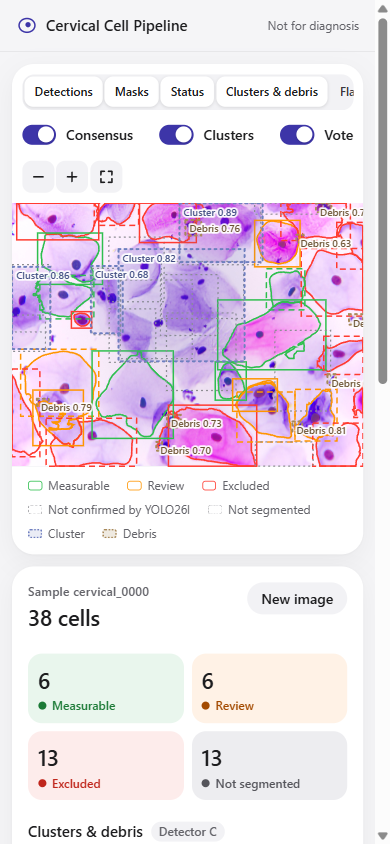
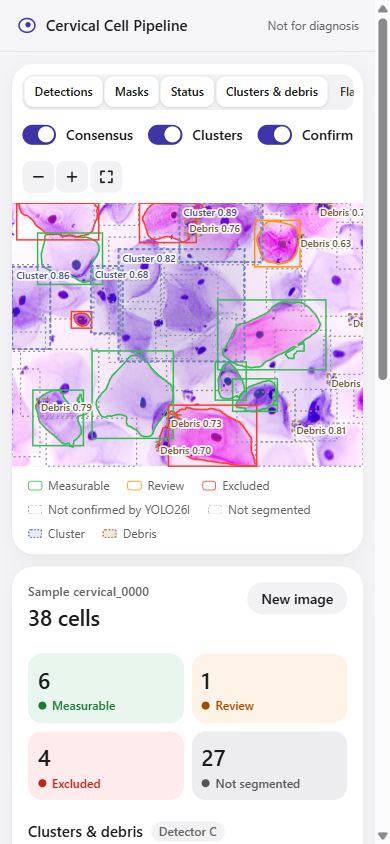
Confirmation cascade: YOLO26s proposes, detector C then YOLO26l confirm, then segment
- voting.mode cascade (default) / majority; reasons not_confirmed_c / not_confirmed_l
- cells inside cluster/debris boxes still skipped; unconfirmed boxes listed as not_segmented
- UI: Confirm switch and stage; docs, tests, screenshots updated

diff --git a/app/frontend/src/components/Landing.tsx b/app/frontend/src/components/Landing.tsx
@@ -56,9 +56,9 @@ export function Landing({ samples, samplesError, onFile, onSample, opts, avail, 
             hint={avail.consensus ? 'YOLO26l confirms each cell. Never removes cells.' : 'Not available on this deployment.'} />
           <Switch checked={opts.clusters && avail.clusters} disabled={!avail.clusters}
             onChange={(v) => setOpt('clusters', v)} label="Clusters & debris (detector C)"
-            hint={avail.clusters ? 'Outlines clusters and debris (never segmented). Its cell class is the third vote.' : 'Not available on this deployment.'} />
-          <Switch checked={opts.vote} onChange={(v) => setOpt('vote', v)} label="Segment voted cells only"
-            hint="Only cells at least 2 of 3 detectors agree on, outside clusters and debris. Others are shown, not segmented." />
+            hint={avail.clusters ? 'Outlines clusters and debris (never segmented). Its cell class is the first check.' : 'Not available on this deployment.'} />
+          <Switch checked={opts.vote} onChange={(v) => setOpt('vote', v)} label="Segment confirmed cells only"
+            hint="YOLO26s finds cells; detector C, then YOLO26l, must confirm each one. Cells in clusters or debris are skipped. Others are shown, not segmented." />
         </div>
         {msg && <p className="error" role="alert">{msg}</p>}
         {busyRetry && (

diff --git a/app/frontend/src/lib/labels.ts b/app/frontend/src/lib/labels.ts
@@ -11,7 +11,7 @@ export const STATUS_HINT: Record<Status, string> = {
   measurable: 'Mask passed every check',
   review: 'Usable, but worth a look',
   excluded: 'Mask not usable for measurement',
-  not_segmented: 'Skipped by the vote: fewer than 2 detectors agree, or inside a cluster / debris box',
+  not_segmented: 'Not confirmed by detector C and YOLO26l, or inside a cluster / debris box',
 }
 
 // Gate reason codes (ncmask/quality.py) and image QC flags in plain words
@@ -34,6 +34,8 @@ export const REASON: Record<string, string> = {
   low_stain: 'Very little stained material',
   heavy_stain: 'Very heavy staining',
   not_voted: 'Fewer than 2 detectors agree',
+  not_confirmed_c: 'Not confirmed by detector C',
+  not_confirmed_l: 'Not confirmed by YOLO26l',
   inside_cluster: 'Inside a cluster',
   inside_debris: 'Inside debris',
 }

diff --git a/app/frontend/src/components/Toolbar.tsx b/app/frontend/src/components/Toolbar.tsx
@@ -40,7 +40,7 @@ export function Toolbar({ layers, setLayers, opts, avail, setOpt, clustersShown,
           onChange={(v) => setOpt('consensus', v)} label="Consensus" />
         <Switch compact checked={opts.clusters && avail.clusters} disabled={!avail.clusters || busy}
           onChange={(v) => setOpt('clusters', v)} label="Clusters" />
-        <Switch compact checked={opts.vote} disabled={busy} onChange={(v) => setOpt('vote', v)} label="Vote" />
+        <Switch compact checked={opts.vote} disabled={busy} onChange={(v) => setOpt('vote', v)} label="Confirm" />
         <div className="zoom" role="group" aria-label="Zoom">
           <button type="button" className="iconbtn" onClick={() => onZoom(1 / 1.4)} aria-label="Zoom out">
             <svg viewBox="0 0 16 16" aria-hidden="true"><path d="M3.5 8h9" /></svg>

diff --git a/app/frontend/src/lib/api.ts b/app/frontend/src/lib/api.ts
@@ -39,7 +39,7 @@ export interface Result {
   image_qc: { ok: boolean; flags: string[]; metrics: Record<string, number> }
   consensus: { requested: boolean; used: boolean; l_only: number }
   clusters: { requested: boolean; used: boolean; info_only: true; conf: number | null; near_frac: number | null; boxes: CBox[] }
-  voting: { used: boolean; detectors_run: number; votes_needed: number | null; skip_in_cluster_debris: boolean; bc_only: number }
+  voting: { used: boolean; mode: 'cascade' | 'majority' | null; detectors_run: number; votes_needed: number | null; skip_in_cluster_debris: boolean; bc_only: number }
   cells: Cell[]
   counts: {
     total: number

diff --git a/app/frontend/src/components/Analysis.tsx b/app/frontend/src/components/Analysis.tsx
@@ -11,7 +11,7 @@ export const STAGES: Stage[] = [
   { key: 'detect', label: 'Detect', detail: 'YOLO26s finds the cells' },
   { key: 'consensus', label: 'Consensus', detail: 'YOLO26l cross-checks them' },
   { key: 'clusters', label: 'Clusters & debris', detail: 'Detector C outlines clusters and debris' },
-  { key: 'vote', label: 'Vote', detail: 'Keep cells at least 2 detectors agree on' },
+  { key: 'vote', label: 'Confirm', detail: 'Detector C, then YOLO26l, confirm each cell' },
   { key: 'segment', label: 'Segment', detail: 'TinyUNet outlines cell and nucleus' },
   { key: 'gate', label: 'Quality gate', detail: 'Each mask is sorted by status' },
 ]

diff --git a/app/frontend/src/components/SidePanel.tsx b/app/frontend/src/components/SidePanel.tsx
@@ -98,7 +98,7 @@ export function SidePanel({ result, selected, onSelect, onNew }: {
             <div><dt>Cells near debris</dt><dd>{result.counts.near.debris}</dd></div>
           </dl>
           <p className="small muted">{result.voting.used
-            ? 'Clusters and debris are never segmented; cells inside them are skipped. Detector C is experimental (mAP50 ~0.5).'
+            ? 'Clusters and debris are never segmented; cells inside them are skipped. Detector C (experimental, mAP50 ~0.5) also confirms each cell.'
             : C_NOTE}</p>
         </section>
       )}

diff --git a/ncmask/fov.py b/ncmask/fov.py
@@ -6,9 +6,13 @@ nucleus within cell -> Stage 4 two layers: FULL per-cell masks (measurement, ove
 excluded + reasons) -> outputs.
 Optional: detector C (cluster / debris boxes, never segmented) -> per-cell near_cluster / near_debris (the C box ids
 covering >= detector_c.near_frac of the cell's detector box). Voting off: information only, computed after the gate.
-Voting on (cfg voting.enabled): a box is segmented only if >= min_votes of the detectors that ran (A YOLO26s, B YOLO26l,
-C's cell class) agree on it and it is not inside a cluster / debris box; the rest stay in the outputs as
-status not_segmented (reason not_voted / inside_cluster / inside_debris)."""
+Voting on (cfg voting.enabled), two modes:
+  cascade   YOLO26s (A) proposes -> detector C's cell class must confirm (else not_confirmed_c) -> YOLO26l (B) must
+            confirm (else not_confirmed_l) -> segmented. A is the only source; a check that did not run is skipped.
+  majority  >= min_votes of the detectors that ran (A, B, C's cell class) agree (else not_voted); B + C boxes that A
+            missed are candidates too (det_tag bc_only).
+Either way a confirmed cell >= near_frac inside a cluster / debris box is not segmented (inside_cluster /
+inside_debris); not segmented boxes stay in the outputs with status not_segmented."""
 import json
 import logging
 import time
@@ -236,11 +240,12 @@ def process_fov(img, fov_id, src_name, detector, seg, cfg, detector_b=None, dete
     vt = cfg.get("voting") or {}
     voting = bool(vt.get("enabled"))
     n_run = 1 + (mode != "single") + (detector_c is not None)
-    need = min(int(vt.get("min_votes", 2)), n_run)
+    vmode = vt.get("mode", "majority")
+    need = n_run if vmode == "cascade" else min(int(vt.get("min_votes", 2)), n_run)
     viou = float(vt.get("match_iou", 0.5))
     ac = match_boxes(boxes, c_cells, viou)[1] if detector_c is not None else np.zeros(len(boxes), bool)
     voters = np.array(["A" + ("B" if x else "") + ("C" if y else "") for x, y in zip(am, ac)], dtype=object)
-    if voting and mode != "single" and detector_c is not None and need <= 2:
+    if voting and vmode == "majority" and mode != "single" and detector_c is not None and need <= 2:
         # B + C agree on a cell YOLO26s missed: a majority without A -> a candidate with B's box and confidence
         free = np.where(~bm)[0]
         cfree = np.where(~match_boxes(boxes, c_cells, viou)[2])[0] if len(c_cells) else np.zeros(0, int)
@@ -284,9 +289,14 @@ def process_fov(img, fov_id, src_name, detector, seg, cfg, detector_b=None, dete
         if not cfg["size"]["box_area_min"] <= bw * bh <= cfg["size"]["box_area_max"]:
             rec["flags"].append("box_size_out_of_range")
         if voting:
-            if len(rec["voters"]) < need:
+            if vmode == "cascade":   # A -> C check -> B check
+                if detector_c is not None and "C" not in rec["voters"]:
+                    rec["skip"].append("not_confirmed_c")
+                elif mode != "single" and "B" not in rec["voters"]:
+                    rec["skip"].append("not_confirmed_l")
+            elif len(rec["voters"]) < need:
                 rec["skip"].append("not_voted")
-            elif vt.get("skip_in_cluster_debris", True):
+            if not rec["skip"] and vt.get("skip_in_cluster_debris", True):
                 rec["skip"] += ["inside_" + o for o in C_OBJECTS if rec["near"][o]]
             if rec["skip"]:
                 rows_pre.append((rec, None)); continue
@@ -416,7 +426,8 @@ def process_fov(img, fov_id, src_name, detector, seg, cfg, detector_b=None, dete
             "detector_c_used": detector_c is not None, "c_boxes": c_boxes,
             "fov_qc": qc_flags, "fov_qc_metrics": qc_metrics, "coco_full": coco_full,
             "status_counts": {k: sum(r["status"] == k for r in rows) for k in STATUSES},
-            "voting": {"enabled": voting, "detectors_run": n_run, "votes_needed": need if voting else None},
+            "voting": {"enabled": voting, "mode": vmode if voting else None, "detectors_run": n_run,
+                       "votes_needed": need if voting else None},
             "n_dropped_overlap": len(dropped_ov), "t_detect_s": round(t_det, 4), "t_seg_s": round(t_seg, 4),
             "t_total_s": round(time.perf_counter() - t0, 4), "t_post_s": round(t2 - t1 - t_seg, 4)}
     return rows, coco, cell_lab, nuc_lab, overlay, info

diff --git a/tests/test_app.py b/tests/test_app.py
@@ -119,17 +119,22 @@ def test_infer_schema(result):
 
 
 def test_voting(result):
-    """Default vote=true: segmented only with >= 2 of 3 detectors and not inside a cluster / debris box."""
+    """Default vote=true, cascade: YOLO26s -> detector C confirms -> YOLO26l confirms -> segmented, unless inside a
+    cluster / debris box."""
     v = result["voting"]
-    assert v["used"] and v["detectors_run"] == 3 and v["votes_needed"] == 2
-    cl = {b["id"]: b for b in result["clusters"]["boxes"]}
+    assert v["used"] and v["mode"] == "cascade" and v["detectors_run"] == 3
     for c in result["cells"]:
+        assert "A" in c["voters"]
         if c["status"] == "not_segmented":
             assert c["cell_polygons"] == [] and c["cell_area_px"] == 0
-            assert c["reasons"] in (["not_voted"], ["inside_cluster"], ["inside_debris"], ["inside_cluster", "inside_debris"])
-            assert (c["reasons"] == ["not_voted"]) == (c["votes"] < 2)
+            if "C" not in c["voters"]:
+                assert c["reasons"] == ["not_confirmed_c"]
+            elif "B" not in c["voters"]:
+                assert c["reasons"] == ["not_confirmed_l"]
+            else:
+                assert c["reasons"] and set(c["reasons"]) <= {"inside_cluster", "inside_debris"}
         else:
-            assert c["votes"] >= 2 and not c["near_cluster"] and not c["near_debris"]
+            assert c["voters"] == "ABC" and not c["near_cluster"] and not c["near_debris"]
     assert result["counts"]["status"]["not_segmented"] > 0
     assert sum(result["counts"]["votes"].values()) == len(result["cells"])
 

diff --git a/app/backend/main.py b/app/backend/main.py
@@ -218,8 +218,9 @@ def infer(file: UploadFile | None = File(None, description="FOV image: .tif/.tif
           consensus: bool = Query(True, description="run the YOLO26l consensus check (tag only, never filters)"),
           clusters: bool = Query(True, description="run detector C (cluster / debris boxes, never segmented; its "
                                                    "cell class is the third vote)"),
-          vote: bool = Query(True, description="segment only boxes at least 2 detectors agree on and that are not "
-                                               "inside a cluster / debris box; the rest are listed as not_segmented")):
+          vote: bool = Query(True, description="segment only YOLO26s boxes confirmed by detector C and then YOLO26l "
+                                               "(config voting.mode) and not inside a cluster / debris box; the rest "
+                                               "are listed as not_segmented")):
     if (file is None) == (sample is None):
         return err(400, "bad_request", "send exactly one of: a file, or a sample name")
     if file is not None and Path(file.filename or "").suffix.lower() not in EXTS:

diff --git a/ncmask/config.py b/ncmask/config.py
@@ -88,9 +88,9 @@ def load(path):
         dcc["class_conf"] = {**{c: float(dcc["conf"]) for c in dcc["classes"]}, "cell": float(dcc["cell_conf"])}
     v = cfg.setdefault("voting", {"enabled": False})
     v.setdefault("enabled", False); v.setdefault("min_votes", 2); v.setdefault("match_iou", 0.5)
-    v.setdefault("skip_in_cluster_debris", True)
-    if not isinstance(v["enabled"], bool) or v["min_votes"] not in (1, 2, 3) or not 0 < float(v["match_iou"]) <= 1:
-        raise ConfigError("voting: enabled true|false, min_votes 1|2|3, match_iou in (0, 1]")
+    v.setdefault("skip_in_cluster_debris", True); v.setdefault("mode", "cascade")
+    if not isinstance(v["enabled"], bool) or v["min_votes"] not in (1, 2, 3) or not 0 < float(v["match_iou"]) <= 1             or v["mode"] not in ("cascade", "majority"):
+        raise ConfigError("voting: enabled true|false, mode cascade|majority, min_votes 1|2|3, match_iou in (0, 1]")
     for sec, k in PATH_KEYS:
         if sec not in cfg:
             continue

diff --git a/app/backend/engine.py b/app/backend/engine.py
@@ -288,7 +288,8 @@ def to_json(res, img_shape, image_info, rid, expires_utc, consensus_requested, e
                      "near_frac": engine.health["models"].get("detector_c", {}).get("near_frac"),
                      "boxes": [{"id": c["cell_id"], "class": c["object"], "conf": c["conf"],
                                 "box": [c["box_x1"], c["box_y1"], c["box_x2"], c["box_y2"]]} for c in cb]},
-        "voting": {"used": res.get("vote_used", False), "detectors_run": info["voting"]["detectors_run"],
+        "voting": {"used": res.get("vote_used", False), "mode": info["voting"]["mode"],
+                   "detectors_run": info["voting"]["detectors_run"],
                    "votes_needed": info["voting"]["votes_needed"], "skip_in_cluster_debris":
                        bool(engine.cfg_on["voting"].get("skip_in_cluster_debris", True)),
                    "bc_only": sum(c["det_tag"] == "bc_only" for c in cells)},

diff --git a/app/README.md b/app/README.md
@@ -39,23 +39,28 @@ browser (React + TS + Vite)                          FastAPI (app/backend, one u
   every YOLO26s box is segmented and tagged `consensus` / `s_only`; YOLO26l never removes a cell.
 - **Clusters off** = detector C never runs (`clusters=false`); on (default) it adds boxes and info tags only.
 
-### Voting: which cells get segmented (app default)
+### Confirmation cascade: which cells get segmented (app default)
 
-With `vote=true` (the app's default; a "Vote" switch turns it off), a box is segmented only if **at least 2 of the
-3 detectors** have it (one-to-one match, IoU >= 0.5): A = YOLO26s, B = YOLO26l @1280, C = detector C's own `cell`
-class (conf >= 0.25; a vote only, never a box of its own). Cells YOLO26s missed but YOLO26l **and** C both found are
-candidates too (`det_tag` `bc_only`, YOLO26l's box). A voted cell with >= 50 % of its box inside a cluster or debris
-box is **not** segmented either. Cluster and debris boxes are independent detections and are never segmented.
-Everything that is not segmented stays visible: status **`not_segmented`**, reason `not_voted` / `inside_cluster` /
-`inside_debris`, its votes (`votes`, `voters` such as `AC`), no mask. If a detector is switched off, the requirement
-is min(2, detectors that ran): A + B or A + C must both agree; A alone segments everything.
+With `vote=true` (the app's default; the "Confirm" switch turns it off) cells go through a chain of checks
+(`voting.mode: cascade`):
 
-On the 10 samples (318 boxes): 275 segmented, 43 not segmented (29 found by one detector only, 14 inside a cluster /
-debris box), 2 `bc_only` cells added; measurable 130 -> 123. Agreement pattern of the segmented cells: A+B+C 135,
-A+C 138, A+B 1, B+C 1 (detector C's cell class confirms many YOLO26s cells that YOLO26l misses). With `vote=false`
-the app behaves exactly like pipeline v3 (every YOLO26s box segmented, C information only). The batch pipeline
-(`run.py`) keeps `voting.enabled: false` in `config.yaml` so its outputs still match the `samples/expected`
-references; set it to `true` to vote there too.
+1. **YOLO26s** (detector A) proposes the cells. It is the only source of cells.
+2. **Detector C** must confirm each one: its own `cell` class (conf >= 0.25) has a box at IoU >= 0.5
+   (else reason `not_confirmed_c`).
+3. **YOLO26l** (detector B) must confirm the rest the same way (else `not_confirmed_l`).
+4. A confirmed cell with >= 50 % of its box inside a **cluster or debris** box is not segmented either
+   (`inside_cluster` / `inside_debris`). Cluster and debris boxes are independent detections, never segmented.
+5. Only what is left gets segmented and goes through the quality gate.
+
+If detector C or the consensus check is switched off, that check is skipped. Everything that is not segmented stays
+visible: status **`not_segmented`**, its reason, `votes` / `voters` (e.g. `AC`), no mask.
+
+On the 10 samples (316 boxes): **135 segmented** (measurable 86, review 7, excluded 42), 181 not segmented
+(33 not confirmed by C, 142 not confirmed by YOLO26l, 6 inside a cluster). YOLO26l is the strict step: it misses many
+cells YOLO26s and C agree on. `voting.mode: majority` (2 of 3, adding cells only YOLO26l and C found) segments 275 of
+318 instead. With `vote=false` the app behaves exactly like pipeline v3 (every YOLO26s box segmented, C information
+only). The batch pipeline (`run.py`) keeps `voting.enabled: false` in `config.yaml` so its outputs still match the
+`samples/expected` references.
 
 ### Detector C (clusters & debris): what it does and doesn't do
 
@@ -64,7 +69,7 @@ references; set it to `true` to vote there too.
 cos_lr); classes and imgsz verified from the checkpoint. **Test mAP50: cell 0.829, cluster 0.503, debris 0.539**,
 with many background false positives at conf 0.25.
 
-Below: detector C with voting **off** (`vote=false`). With voting on, its cell class is the third vote and its
+Below: detector C with voting **off** (`vote=false`). With voting on, its cell class is the first confirmation check and its
 cluster / debris boxes block segmentation (above).
 
 - **Does:** run full-frame on the FOV as decoded (the same image detectors A and B see; letterboxed to 1024, i.e.
@@ -117,7 +122,7 @@ an export whose metadata says `end2end`; (2) the export has dynamic H/W so the r
   "consensus": {"requested": true, "used": true, "l_only": 1},
   "clusters": {"requested": true, "used": true, "info_only": true, "conf": 0.5, "near_frac": 0.5,
                "boxes": [{"id": "C1", "class": "cluster", "conf": 0.89, "box": [x1, y1, x2, y2]}, …]},
-  "voting": {"used": true, "detectors_run": 3, "votes_needed": 2, "skip_in_cluster_debris": true, "bc_only": 0},
+  "voting": {"used": true, "mode": "cascade", "detectors_run": 3, "votes_needed": 3, "skip_in_cluster_debris": true, "bc_only": 0},
   "cells": [{"id": 1, "box": [x1, y1, x2, y2], "conf": 0.9, "det_tag": "consensus", "b_conf": 0.88, "ab_iou": 0.93,
              "status": "review", "reasons": ["multi_nucleus"], "flags": ["multi_nucleus"],
              "cell_area_px": 63405, "nucleus_area_px": 1210, "nc_ratio": 0.0195, "occluded_frac": 0.0,
@@ -158,10 +163,10 @@ together with their dependencies (`three`, `@react-three/*`, `@shadergradient/re
 - **Landing:** headline, one-line explanation, "Research demo, not for diagnosis." in small muted text, a drop zone,
   the two switches (Consensus check, Clusters & debris (detector C), both on by default), five sample thumbnails.
   The header + intro are static HTML in `index.html` (same markup React renders), so the first paint needs no JS.
-- **Analysis:** progress bar + the stage names (Detect, Consensus, Clusters & debris, Vote, Segment, Quality gate; stages
+- **Analysis:** progress bar + the stage names (Detect, Consensus, Clusters & debris, Confirm, Segment, Quality gate; stages
   that are off are hidden). The call is synchronous, so the current stage is an estimate from the warm-up timings.
 - **Viewer:** the image fills its card edge to edge (4:3 on phones). A slim segmented control toggles layers
-  (Detections · Masks · Status · Clusters & debris · Flagged only); Consensus, Clusters and Vote are switches (they
+  (Detections · Masks · Status · Clusters & debris · Flagged only); Consensus, Clusters and Confirm are switches (they
   re-run the image). Not-segmented boxes are thin dotted grey; zoom − / + / fit. Detector-C boxes are dotted, muted slate-blue (cluster) / umber (debris) outlines
   with a light tint and a label ("Cluster 0.89") that keeps its on-screen size at any zoom.
 - **Side panel:** status counts (Measurable / Review / Excluded / Not segmented), a Votes column (e.g. 2/3) in the
